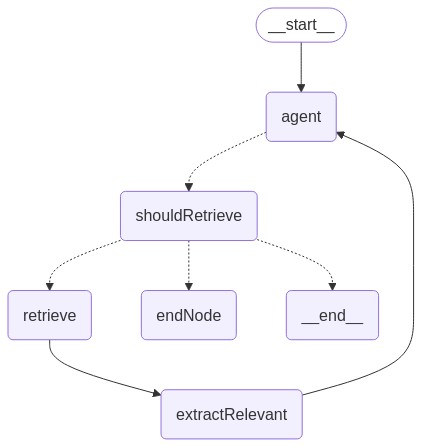
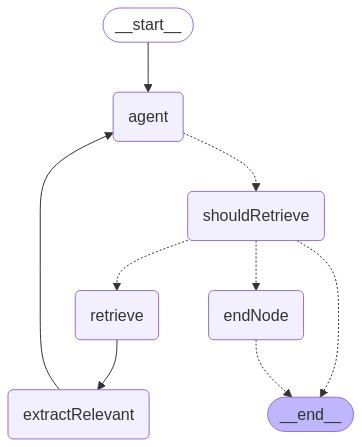
take tool calls away from the buster generator

diff --git a/app/api/chat/retrieval/route.ts b/app/api/chat/retrieval/route.ts
@@ -71,33 +71,37 @@ export async function POST(req: NextRequest) {
 
     const graphAgent = await getGraphAgent();
 
+    //uncomment this to draw the mermaid
+    // await drawMermaid();
+
     const agentToUse = useCustom ? graphAgent : reactAgent;
 
     const stream = agentToUse.streamEvents(
       { messages: [latestMessage] },
-      { version: "v2", recursionLimit: 15 },
+      { version: "v2", recursionLimit: 20 },
     );
 
     const data = new StreamData();
 
-    const testDataStream = createDataStream({
-      async execute(dataStream) {
-        const stream = agentToUse.streamEvents(
-          { messages: [latestMessage] },
-          { version: "v2", recursionLimit: 15 },
-        );
-        const addDataTransformer = new TransformStream({
-          async transform(chunk, controller) {
-            if (chunk.event !== "on_chat_model_stream") {
-              dataStream.writeData(chunk.data);
-            }
-            controller.enqueue(chunk);
-          },
-        });
-        const addDataStream = stream.pipeThrough(addDataTransformer);
-        dataStream.merge(addDataStream);
-      },
-    });
+    //this is how you could do it if they update LangChainAdapter to not use the deprecated StreamData()
+    // const testDataStream = createDataStream({
+    //   async execute(dataStream) {
+    //     const stream = agentToUse.streamEvents(
+    //       { messages: [latestMessage] },
+    //       { version: "v2", recursionLimit: 15 },
+    //     );
+    //     const addDataTransformer = new TransformStream({
+    //       async transform(chunk, controller) {
+    //         if (chunk.event !== "on_chat_model_stream") {
+    //           dataStream.writeData(chunk.data);
+    //         }
+    //         controller.enqueue(chunk);
+    //       },
+    //     });
+    //     const addDataStream = stream.pipeThrough(addDataTransformer);
+    //     dataStream.merge(addDataStream);
+    //   },
+    // });
 
     const addDataStream = new TransformStream({
       async transform(chunk, controller) {

diff --git a/app/api/chat/retrieval/graphAgent.ts b/app/api/chat/retrieval/graphAgent.ts
@@ -426,10 +426,9 @@ export const getGraphAgent = async () => {
 
     const prompt = SystemMessagePromptTemplate.fromTemplate(END_NODE_TEMPLATE);
 
-    const formatted = prompt.format({ question, context });
-    console.log(formatted);
+    const formatted = await prompt.format({ question, context });
 
-    const chain = prompt.pipe(modelWithTools);
+    const chain = prompt.pipe(model);
 
     const response = await chain.invoke({
       question,
@@ -452,7 +451,7 @@ export const getGraphAgent = async () => {
     })
     .addNode("retrieve", toolNode)
     .addNode("extractRelevant", extractRelevant)
-    .addNode("endNode", endNode, { ends: ["end"] })
+    .addNode("endNode", endNode, { ends: [END] })
     .addEdge(START, "agent")
     .addEdge("retrieve", "extractRelevant")
     .addEdge("extractRelevant", "agent");

diff --git a/utils/eventMap.ts b/utils/eventMap.ts
@@ -17,4 +17,5 @@ export const eventMessageMap = new Map([
   ["shouldRetrieve", "Deciding next steps"],
   ["retrieve", "Searching for context"],
   ["extractRelevant", "Extracting relevant info"],
+  ["endNode", "Going out like a buster"],
 ]);
